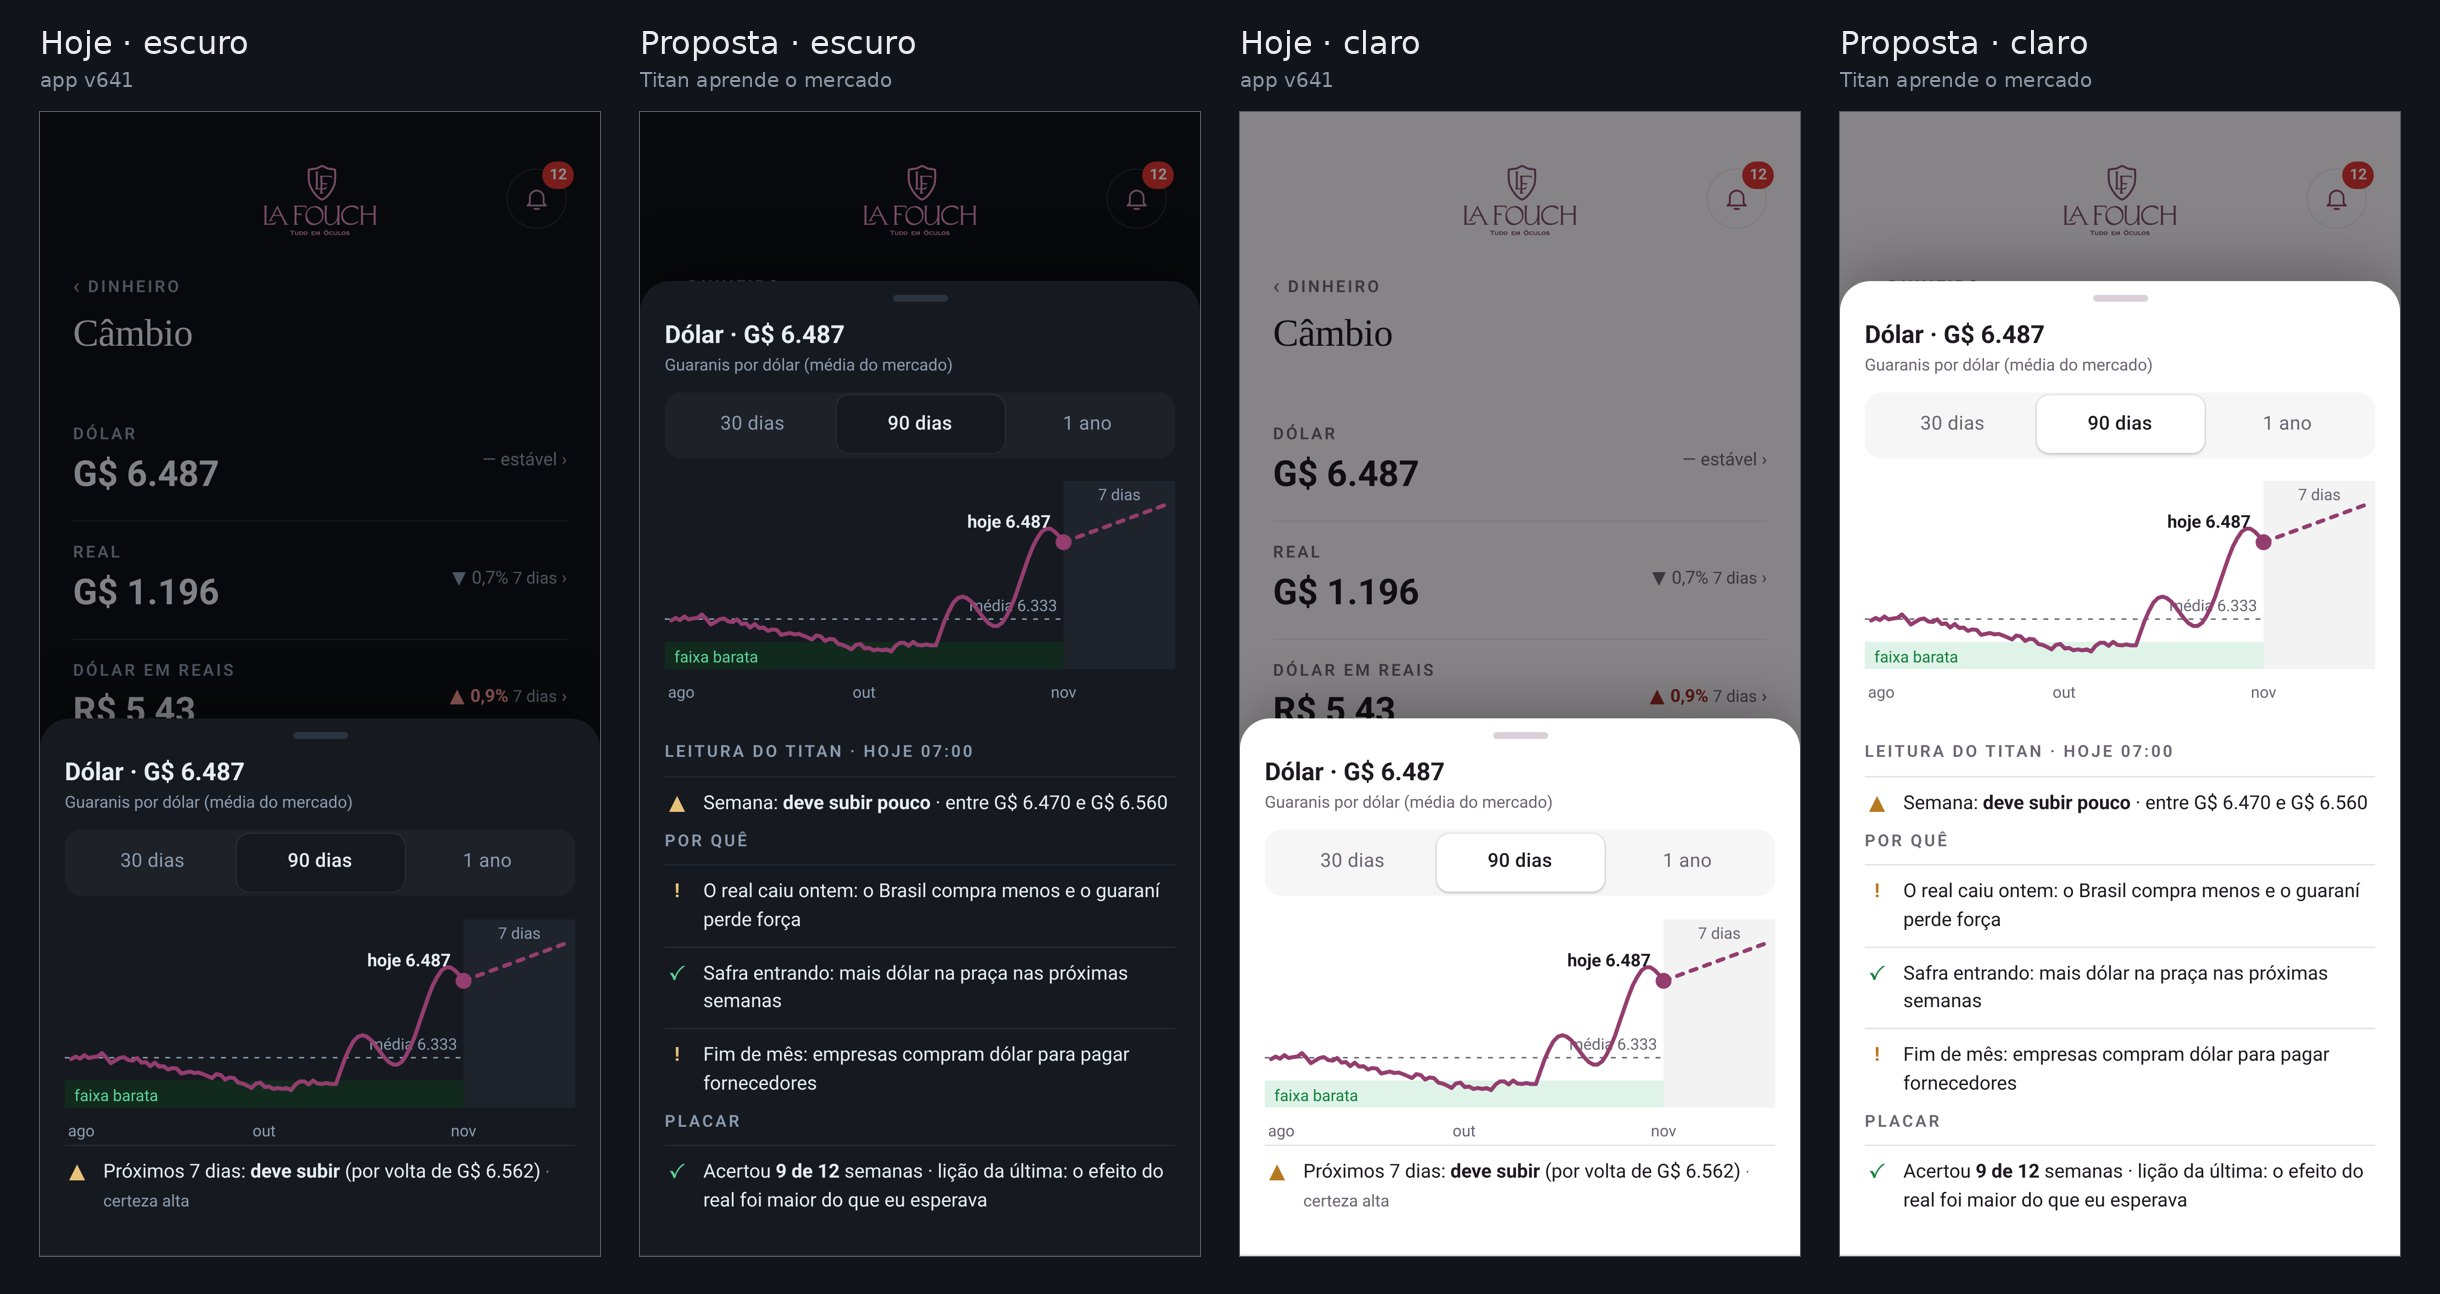
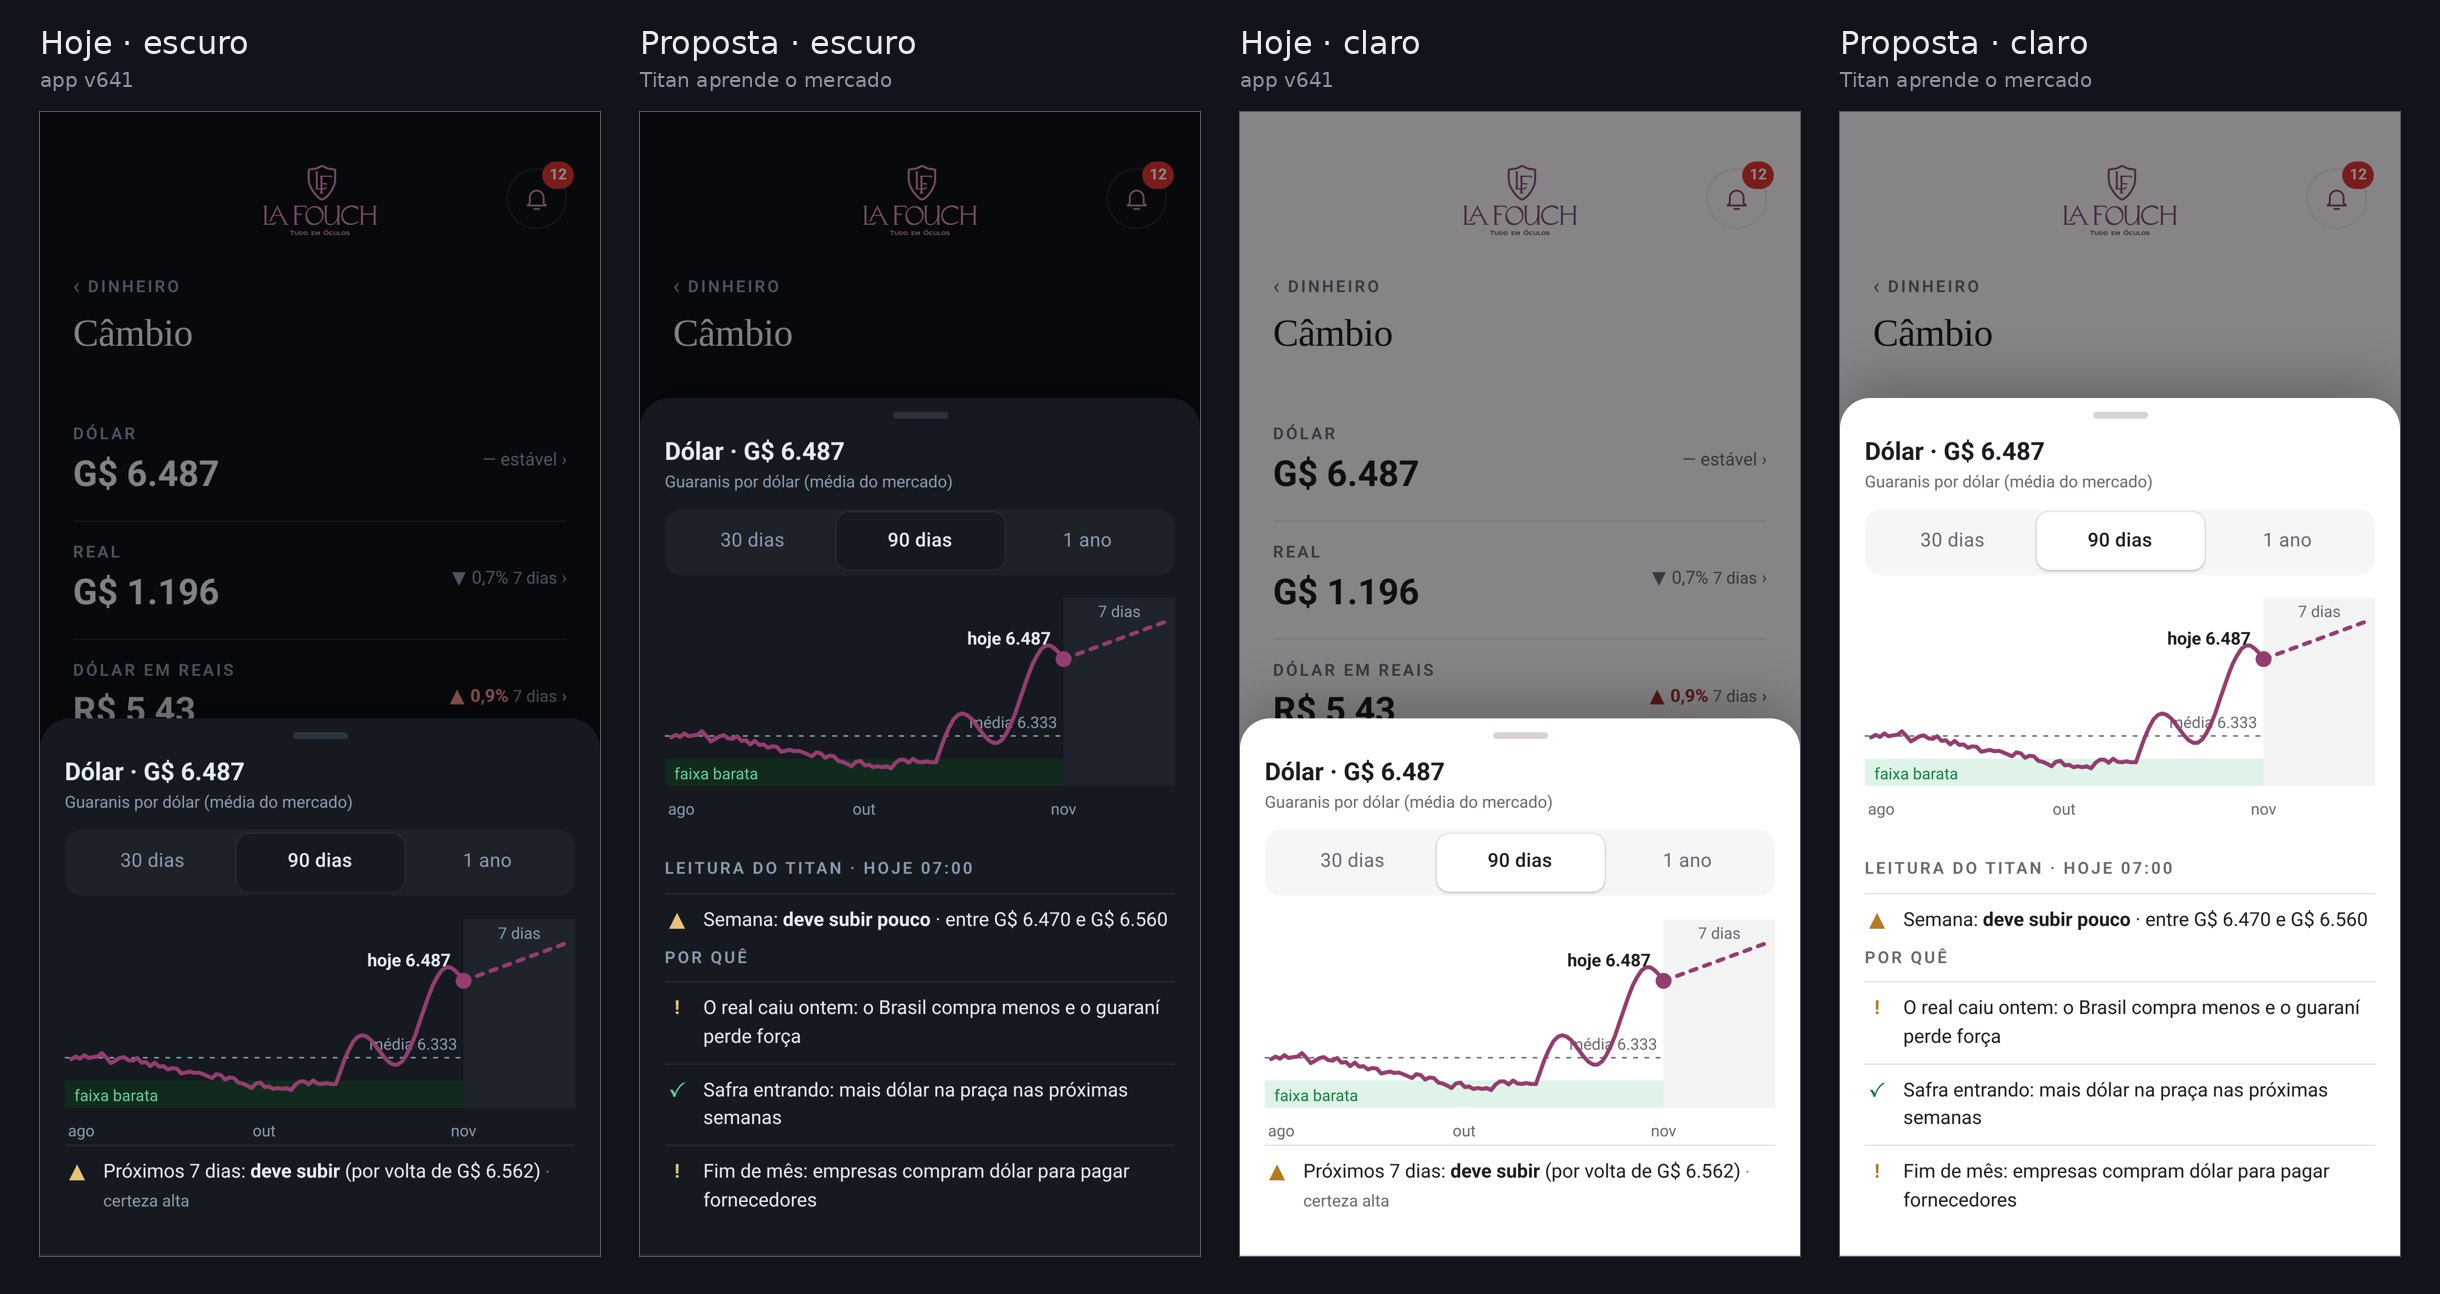
Aprovado 10:31: Titan que aprende o mercado, sem placar na tela (aprende por dentro)
Claude-Session: https://claude.ai/code/session_01PcXkKhQ19QQCBHAmCvJr7t

diff --git a/work/esboco/titan/esboco_titan.py b/work/esboco/titan/esboco_titan.py
@@ -15,8 +15,7 @@ FX_PROP = r"""()=>{
   '<div class="lbl tiLb">POR QUÊ</div><div class="fjMot">'+
    L(false,'!','O real caiu ontem: o Brasil compra menos e o guaraní perde força')+
    L(true,'✓','Safra entrando: mais dólar na praça nas próximas semanas')+
-   L(false,'!','Fim de mês: empresas compram dólar para pagar fornecedores')+'</div>'+
-  '<div class="lbl tiLb">PLACAR</div><div class="fjMot">'+L(true,'✓','Acertou <b>9 de 12</b> semanas · lição da última: o efeito do real foi maior do que eu esperava')+'</div>');
+   L(false,'!','Fim de mês: empresas compram dólar para pagar fornecedores')+'</div>');
 }"""
 ABRE_PREC = "()=>{__LF.inicioGo('prec')}"
 PREC_PROP = r"""()=>{

diff --git a/work/esboco/titan/comparador_titan.md b/work/esboco/titan/comparador_titan.md
@@ -1,8 +1,7 @@
-## Titan fx · escuro · 45 diferenças
+## Titan fx · escuro · 40 diferenças
 - “Próximos 7 dias: (por volta de G$ 6.562)” · falta (está na planta, não está no app)
 - “deve subir” · falta (está na planta, não está no app)
 - “· certeza alta” · falta (está na planta, não está no app)
-- “caixa” · sobra (está no app, não está na planta)
 - “caixa” · sobra (está no app, não está na planta)
 - “caixa” · sobra (está no app, não está na planta)
 - “caixa” · sobra (está no app, não está na planta)
@@ -16,13 +15,12 @@
 - “Safra entrando: mais dólar na praça nas ” · sobra (está no app, não está na planta)
 - “!” · sobra (está no app, não está na planta)
 - “Fim de mês: empresas compram dólar para ” · sobra (está no app, não está na planta)
-- “PLACAR” · sobra (está no app, não está na planta)
-- “✓” · sobra (está no app, não está na planta)
-- “Acertou semanas · lição da última: o efe” · sobra (está no app, não está na planta)
-- “9 de 12” · sobra (está no app, não está na planta)
 - “caixa” · tamanho
 - “caixa” · fundo
 - “caixa” · borda
+- “caixa” · raio
+- “caixa” · tamanho
+- “caixa” · fundo
 - “caixa” · raio
 - “caixa” · tamanho
 - “caixa” · fundo
@@ -32,18 +30,15 @@
 - “caixa” · fundo
 - “caixa” · borda
 - “caixa” · raio
-- “caixa” · tamanho
-- “caixa” · fundo
-- “caixa” · borda
-- “caixa” · raio
-- “caixa” · posição +18.0 px (lado) +41.5 px (altura)
-- “caixa” · posição -165.5 px (lado) +96.2 px (altura)
-- “Dólar · G$ 6.487” · a partir daqui, 2 peças deslocadas +0.0 px (lado) -318.2 px (altura)
-- “caixa” · posição +0.0 px (lado) +85.3 px (altura)
-- “1 ano” · a partir daqui, 3 peças deslocadas +0.0 px (lado) -318.2 px (altura)
-- “caixa” · posição -125.0 px (lado) +141.9 px (altura)
-- ícone · posição +0.0 px (lado) -318.2 px (altura)
-- “▲” · posição +0.0 px (lado) -268.9 px (altura)
+- “caixa” · posição +18.0 px (lado) +126.5 px (altura)
+- “caixa” · posição -40.5 px (lado) -159.8 px (altura)
+- “Dólar · G$ 6.487” · posição +0.0 px (lado) -233.2 px (altura)
+- “Guaranis por dólar (média do mercado)” · posição +0.0 px (lado) -233.3 px (altura)
+- “caixa” · posição +0.0 px (lado) +110.7 px (altura)
+- “1 ano” · a partir daqui, 3 peças deslocadas +0.0 px (lado) -233.3 px (altura)
+- “caixa” · posição -125.0 px (lado) +167.3 px (altura)
+- ícone · posição +0.0 px (lado) -233.3 px (altura)
+- “▲” · posição +0.0 px (lado) -183.9 px (altura)
 
 ## Titan prec · escuro · 15 diferenças
 - “O TITAN DECIDE HOJE · 2” · falta (está na planta, não está no app)
@@ -62,11 +57,10 @@
 - “calculadora de preço · e se…?” · a partir daqui, 4 peças deslocadas +0.0 px (lado) +69.0 px (altura)
 - “o que mudou, quando e por quê” · posição +0.0 px (lado) +69.1 px (altura)
 
-## Titan fx · claro · 45 diferenças
+## Titan fx · claro · 40 diferenças
 - “Próximos 7 dias: (por volta de G$ 6.562)” · falta (está na planta, não está no app)
 - “deve subir” · falta (está na planta, não está no app)
 - “· certeza alta” · falta (está na planta, não está no app)
-- “caixa” · sobra (está no app, não está na planta)
 - “caixa” · sobra (está no app, não está na planta)
 - “caixa” · sobra (está no app, não está na planta)
 - “caixa” · sobra (está no app, não está na planta)
@@ -80,13 +74,12 @@
 - “Safra entrando: mais dólar na praça nas ” · sobra (está no app, não está na planta)
 - “!” · sobra (está no app, não está na planta)
 - “Fim de mês: empresas compram dólar para ” · sobra (está no app, não está na planta)
-- “PLACAR” · sobra (está no app, não está na planta)
-- “✓” · sobra (está no app, não está na planta)
-- “Acertou semanas · lição da última: o efe” · sobra (está no app, não está na planta)
-- “9 de 12” · sobra (está no app, não está na planta)
 - “caixa” · tamanho
 - “caixa” · fundo
 - “caixa” · borda
+- “caixa” · raio
+- “caixa” · tamanho
+- “caixa” · fundo
 - “caixa” · raio
 - “caixa” · tamanho
 - “caixa” · fundo
@@ -96,18 +89,15 @@
 - “caixa” · fundo
 - “caixa” · borda
 - “caixa” · raio
-- “caixa” · tamanho
-- “caixa” · fundo
-- “caixa” · borda
-- “caixa” · raio
-- “caixa” · posição +18.0 px (lado) +41.5 px (altura)
-- “caixa” · posição -165.5 px (lado) +96.2 px (altura)
-- “Dólar · G$ 6.487” · a partir daqui, 2 peças deslocadas +0.0 px (lado) -318.2 px (altura)
-- “caixa” · posição +0.0 px (lado) +85.3 px (altura)
-- “1 ano” · a partir daqui, 3 peças deslocadas +0.0 px (lado) -318.2 px (altura)
-- “caixa” · posição -125.0 px (lado) +141.9 px (altura)
-- ícone · posição +0.0 px (lado) -318.2 px (altura)
-- “▲” · posição +0.0 px (lado) -268.9 px (altura)
+- “caixa” · posição +18.0 px (lado) +126.5 px (altura)
+- “caixa” · posição -40.5 px (lado) -159.8 px (altura)
+- “Dólar · G$ 6.487” · posição +0.0 px (lado) -233.2 px (altura)
+- “Guaranis por dólar (média do mercado)” · posição +0.0 px (lado) -233.3 px (altura)
+- “caixa” · posição +0.0 px (lado) +110.7 px (altura)
+- “1 ano” · a partir daqui, 3 peças deslocadas +0.0 px (lado) -233.3 px (altura)
+- “caixa” · posição -125.0 px (lado) +167.3 px (altura)
+- ícone · posição +0.0 px (lado) -233.3 px (altura)
+- “▲” · posição +0.0 px (lado) -183.9 px (altura)
 
 ## Titan prec · claro · 15 diferenças
 - “O TITAN DECIDE HOJE · 2” · falta (está na planta, não está no app)

diff --git a/docs/FALTA-APROVAR-15-11.md b/docs/FALTA-APROVAR-15-11.md
@@ -1329,3 +1329,5 @@ Não são esquecimento (estavam na lista, parados de propósito ou por ordem do 
 - 27/11/2026 10:21 AUTORIZADO (dono): teto do cérebro (Titan + Semp) = US$ 10/mês, com eficiência máxima E qualidade máxima — estudos e lições sempre no modelo forte (Sonnet), Haiku só no rotineiro com escalada; aviso em 80%; sobra vai para estudo extra do Semp. Substitui os tetos anteriores (15/5/3).
 
 - 27/11/2026 10:23 APROVADO (dono, "aprovei suas ideias"): proposta Titan que aprende o mercado + Semp (work/esboco/cambio/PROPOSTA-TITAN-CAMBIO.md v2–v2e): Titan = câmbio + preços (uma memória), Semp separado, conversa pelo esboço já aprovado de 20/11, só API, teto US$ 10/mês, qualidade máxima nos estudos, trilhos de luxo. Parte por dentro (nuvem) → Fila da NUVEM (6b). Esboço das telas: work/esboco/titan/ (esperando o dono).
+
+- 27/11/2026 10:31 APROVADO (dono): esboço Titan que aprende o mercado (work/esboco/titan/COMO-FAZER-TITAN-MERCADO.md, esboco_titan_cambio.jpg + esboco_titan_precos.jpg) SEM placar na tela — acertos, erros e lições por dentro (aprende sobretudo com os erros), guardados no Histórico do Titan. → implementar (APP) depois do cérebro na nuvem (NUVEM) e na ordem da Fila.

diff --git a/docs/MEMORIA-PROJETO.md b/docs/MEMORIA-PROJETO.md
@@ -3850,3 +3850,5 @@ Testar TUDO, com muita calma, antes de dizer que está pronto ou de publicar: ca
 - 27/11/2026 10:21 AUTORIZADO (dono): teto do cérebro (Titan + Semp) = US$ 10/mês, com eficiência máxima E qualidade máxima — estudos e lições sempre no modelo forte (Sonnet), Haiku só no rotineiro com escalada; aviso em 80%; sobra vai para estudo extra do Semp. Substitui os tetos anteriores (15/5/3).
 
 - 27/11/2026 10:23 APROVADO (dono, "aprovei suas ideias"): proposta Titan que aprende o mercado + Semp (work/esboco/cambio/PROPOSTA-TITAN-CAMBIO.md v2–v2e): Titan = câmbio + preços (uma memória), Semp separado, conversa pelo esboço já aprovado de 20/11, só API, teto US$ 10/mês, qualidade máxima nos estudos, trilhos de luxo. Parte por dentro (nuvem) → Fila da NUVEM (6b). Esboço das telas: work/esboco/titan/ (esperando o dono).
+
+- 27/11/2026 10:31 APROVADO (dono): esboço Titan que aprende o mercado (work/esboco/titan/COMO-FAZER-TITAN-MERCADO.md, esboco_titan_cambio.jpg + esboco_titan_precos.jpg) SEM placar na tela — acertos, erros e lições por dentro (aprende sobretudo com os erros), guardados no Histórico do Titan. → implementar (APP) depois do cérebro na nuvem (NUVEM) e na ordem da Fila.

diff --git a/work/esboco/titan/COMO-FAZER-TITAN-MERCADO.md b/work/esboco/titan/COMO-FAZER-TITAN-MERCADO.md
@@ -1,4 +1,4 @@
-# Titan que aprende o mercado — telas (esboço · ESBOCO · 27/11/2026) — esboco_titan_cambio.jpg · esboco_titan_precos.jpg
+# Titan que aprende o mercado — telas (esboço · ESBOCO · 27/11/2026 · APROVADO 10:31, sem placar) — esboco_titan_cambio.jpg · esboco_titan_precos.jpg
 Base: app real v641 (motor do Argus, loja de teste). Proposta aprovada 27/11 10:23 (work/esboco/cambio/PROPOSTA-TITAN-CAMBIO.md v2–v2e).
 Aprovados incluídos: janela do dólar (S418/126, sem ×), Preços = escritório do Titan (54 + 46b, "O Titan decide hoje"),
 conversa Semp ↔ Titan (20/11 19:35, sem tela nova aqui). Textos da leitura = exemplo (vêm do cérebro).
